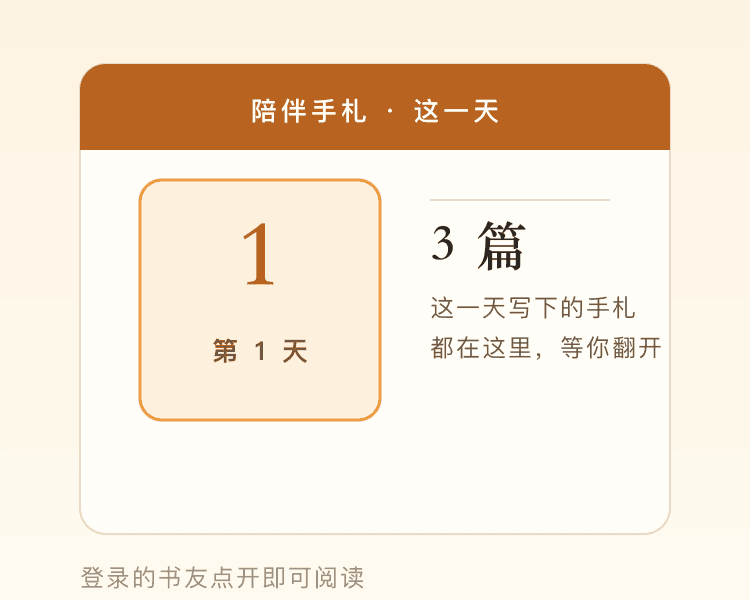
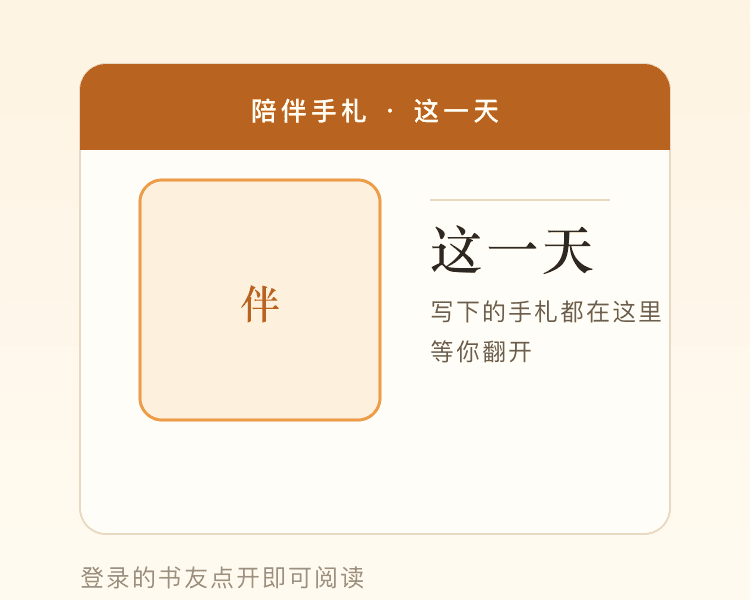
fix: 专区分享封面统一并去掉图上写死的篇数 (#27)
- 选中的天没有手札时，之前会错用「单篇手札」封面，让同是专区分享的
  卡片封面不一致；现在专区分享一律用日历封面，单篇封面只归详情页
- 日历封面图上去掉写死的「3 篇 / 第 1 天」：分享卡片图是静态的，
  数字应由标题动态表达，避免图文对不上（图说 3 篇、标题说 2 篇）
- 选了没有手札的天分享时，标题说明「这一天还没有手札」

Changed region(s): [[0.552, 0.36, 0.8893, 0.6], [0.3067, 0.36, 0.368, 0.54], [0.276, 0.57, 0.4293, 0.6]]

diff --git a/miniprogram/pages/companion-notes/list/list.js b/miniprogram/pages/companion-notes/list/list.js
@@ -227,14 +227,14 @@ Page({
     const query = params.length ? `?${params.join('&')}` : '';
     const scopeName = this.data.activeScope === 'general' ? '全营' : (periodTab.name || '本期');
     const dayText = dayEntry ? `第 ${dayEntry.day === 0 ? '0' : dayEntry.day} 天` : '';
+    const hasDayPicked = day !== null && day !== undefined;
     return {
-      title: day !== null && dayCount
-        ? `陪伴手札 · ${scopeName}${dayText ? ' · ' + dayText : ''}，${dayCount} 篇等你翻开`
+      title: hasDayPicked
+        ? `陪伴手札 · ${scopeName}${dayText ? ' · ' + dayText : ''}${dayCount ? `，${dayCount} 篇等你翻开` : '，这一天还没有手札'}`
         : `陪伴手札 · ${scopeName}，每一课后的陪伴`,
       path: `/pages/companion-notes/list/list${query}`,
-      imageUrl: day !== null && dayCount
-        ? '/assets/images/companion-share-day.png'
-        : '/assets/images/companion-share-note.png'
+      // 只要是从专区分享就统一用日历封面；天数写进标题，图上的数字是示意
+      imageUrl: '/assets/images/companion-share-day.png'
     };
   },
 
